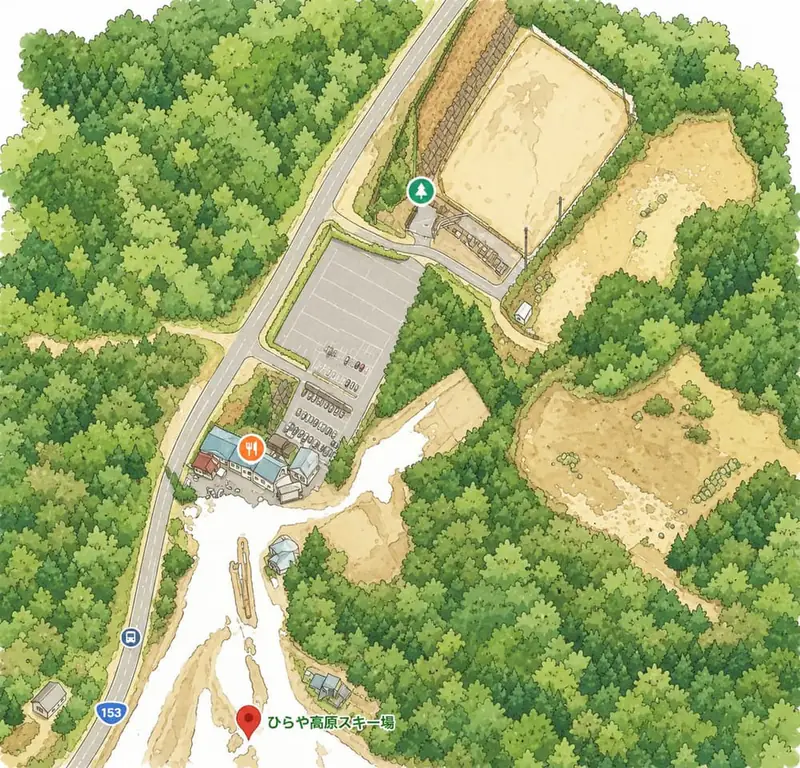
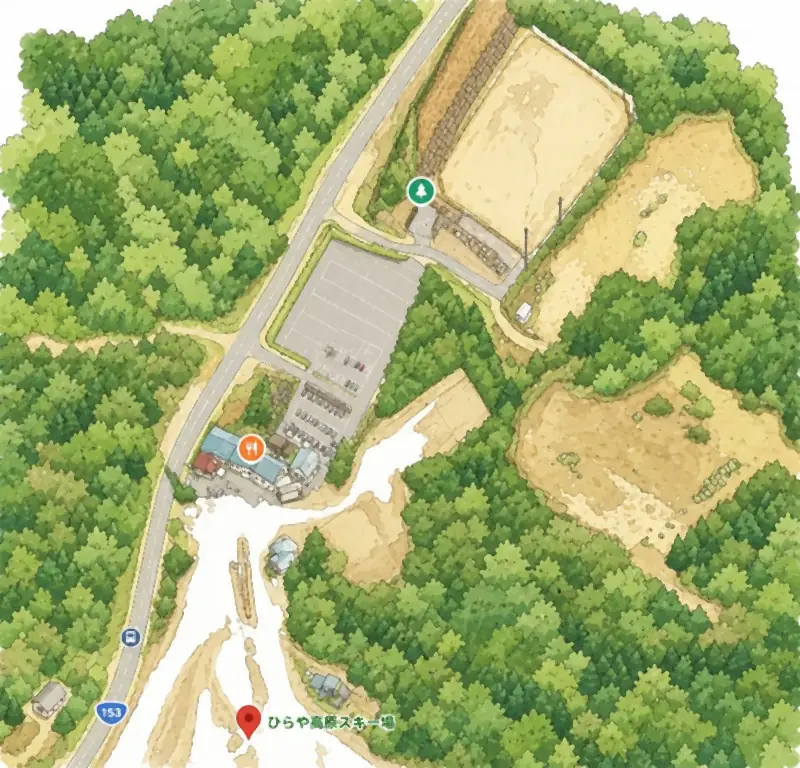
Shrink images: denoise before WebP, size crew photo to display width
- hero: 800/1280/1920 WebP (43/97/195KB), desktop no longer loads the 260KB JPG
- venue map: 114KB / 78KB (was 169 / 124)
- crew photo resized to 520px (36KB, was 57)

Claude-Session: https://claude.ai/code/session_011SkbvXfTXZUo9LdMB78rBs

diff --git a/index.html b/index.html
@@ -108,7 +108,7 @@
   <!-- ============================= HERO ============================= -->
   <section class="hero" id="hero">
     <div class="hero-media" aria-hidden="true">
-      <img src="images/hero-venue.jpg" srcset="images/hero-venue-800.webp 800w, images/hero-venue-1280.webp 1280w, images/hero-venue.jpg 1920w" sizes="100vw" width="1920" height="1280" alt="" loading="eager" fetchpriority="high" decoding="async">
+      <img src="images/hero-venue.jpg" srcset="images/hero-venue-800.webp 800w, images/hero-venue-1280.webp 1280w, images/hero-venue-1920.webp 1920w" sizes="100vw" width="1920" height="1280" alt="" loading="eager" fetchpriority="high" decoding="async">
       <div class="hero-scrim"></div>
     </div>
 
@@ -164,7 +164,7 @@
           </p>
         </div>
         <div class="about-photo">
-          <img src="images/about-crew.webp" width="700" height="1194" alt="会場設営を行う主催者 MUSASI" loading="lazy" decoding="async">
+          <img src="images/about-crew.webp" width="520" height="887" alt="会場設営を行う主催者 MUSASI" loading="lazy" decoding="async">
           <p class="about-photo-caption">
             <span class="role" data-en="Organizer">主催者</span>
             <span class="name">MUSASI</span>
@@ -427,7 +427,7 @@
           </figcaption>
         </figure>
         <figure class="archive-card">
-          <img src="images/about-crew.webp" width="700" height="1194" alt="会場設営を行う主催者 MUSASI" loading="lazy" decoding="async">
+          <img src="images/about-crew.webp" width="520" height="887" alt="会場設営を行う主催者 MUSASI" loading="lazy" decoding="async">
           <figcaption>
             <span class="archive-tag" data-en="Setup">設営風景</span>
             <span data-en="Organizer MUSASI preparing the venue">会場設営を行う主催者 MUSASI</span>

diff --git a/archive.html b/archive.html
@@ -76,7 +76,7 @@
           </figcaption>
         </figure>
         <figure class="archive-card">
-          <img src="images/about-crew.webp" width="700" height="1194" alt="会場設営を行う主催者 MUSASI" loading="lazy" decoding="async">
+          <img src="images/about-crew.webp" width="520" height="887" alt="会場設営を行う主催者 MUSASI" loading="lazy" decoding="async">
           <figcaption>
             <span class="archive-tag" data-en="Setup">設営風景</span>
             <span data-en="Organizer MUSASI preparing the venue">会場設営を行う主催者 MUSASI</span>
